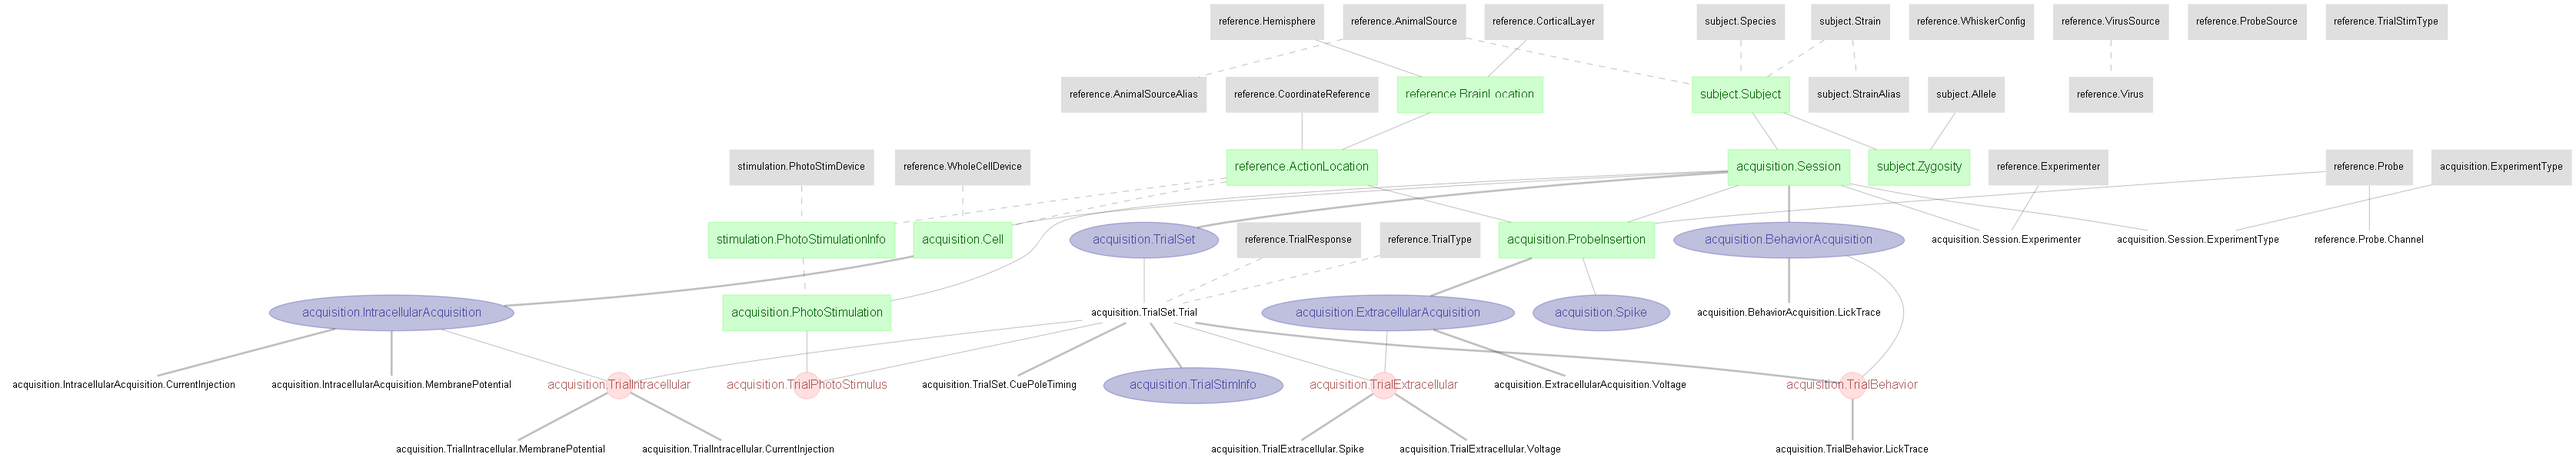
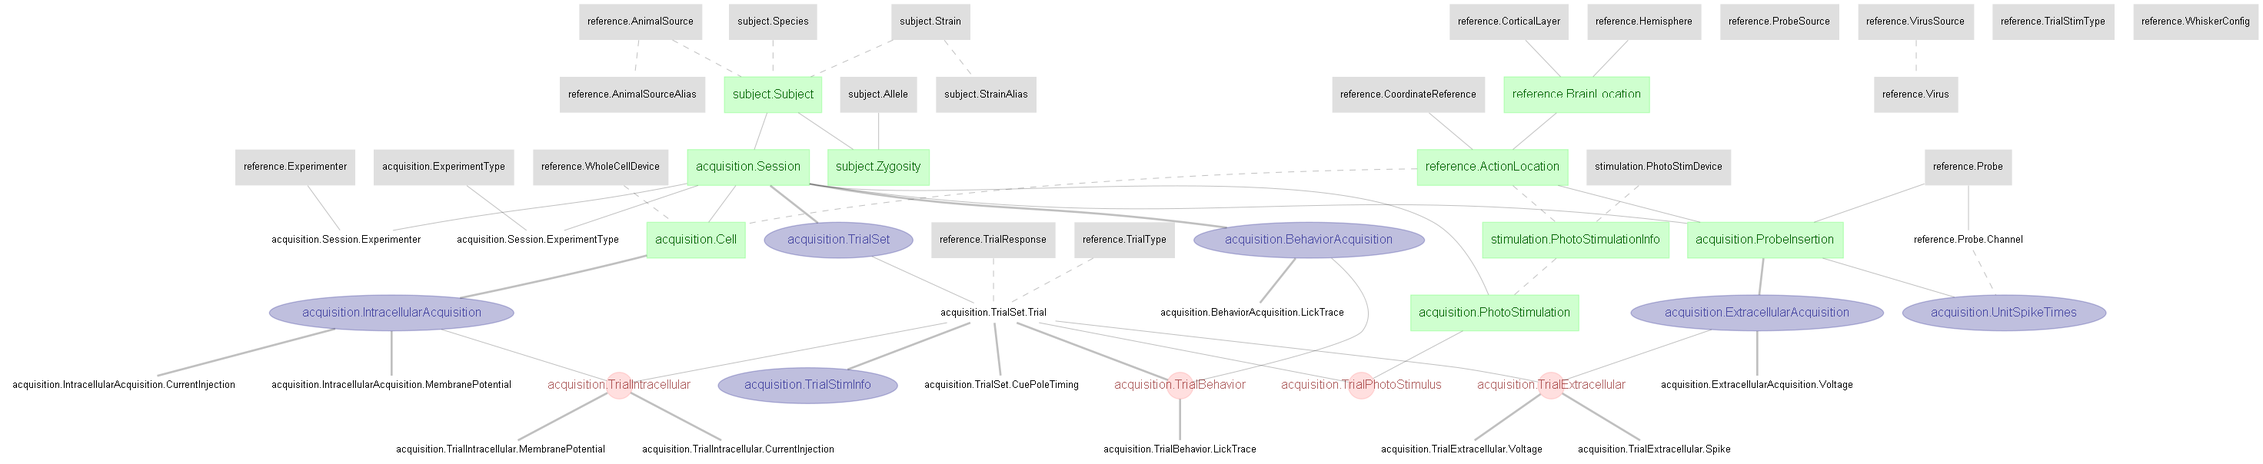
finished ingestion for intra and extra cellular data

diff --git a/pipeline/acquisition.py b/pipeline/acquisition.py
@@ -60,7 +60,8 @@ class BehaviorAcquisition(dj.Imported):
         ---
         lick_trace_left: longblob   
         lick_trace_right: longblob
-        lick_trace_time_stamps: longblob
+        lick_trace_start_time: float # first timepoint of lick trace recording
+        lick_trace_sampling_rate: float # sampling rate of lick trace recording
         """       
         
     def make(self,key):
@@ -79,11 +80,13 @@ class BehaviorAcquisition(dj.Imported):
         
         #  ============= Now read the data and start ingesting =============
         self.insert1(key)
-        print('Insert extracellular data for: subject: {0} - date: {1}'.format(key['subject_id'],key['session_time']))
+        print('Insert behavioral data for: subject: {0} - date: {1}'.format(key['subject_id'],key['session_time']))
         # -- MembranePotential
-        key['lick_trace_left'] = np.array(nwb['acquisition']['timeseries']['lick_trace_L']['data'])
-        key['lick_trace_right'] = np.array(nwb['acquisition']['timeseries']['lick_trace_R']['data'])
-        key['lick_trace_time_stamps'] = np.array(nwb['acquisition']['timeseries']['lick_trace_L']['timestamps'])
+        key['lick_trace_left'] = nwb['acquisition']['timeseries']['lick_trace_L']['data'].value
+        key['lick_trace_right'] = nwb['acquisition']['timeseries']['lick_trace_R']['data'].value
+        lick_trace_time_stamps = nwb['acquisition']['timeseries']['lick_trace_R']['timestamps'].value
+        key['lick_trace_start_time'] = lick_trace_time_stamps[0]
+        key['lick_trace_sampling_rate'] = 1/np.mean(np.diff(lick_trace_time_stamps))        
         self.LickTrace.insert1(key, ignore_extra_fields=True)
 
 
@@ -95,7 +98,8 @@ class PhotoStimulation(dj.Manual):
     ---
     -> stimulation.PhotoStimulationInfo
     photostim_timeseries: longblob
-    photostim_time_stamps: longblob
+    photostim_start_time: float # first timepoint of photostim recording
+    photostim_sampling_rate: float # sampling rate of photostim recording
     """    
 
 
@@ -123,7 +127,8 @@ class IntracellularAcquisition(dj.Imported):
         ---
         membrane_potential: longblob    # Membrane potential recording at this cell
         membrane_potential_wo_spike: longblob # membrane potential without spike data, derived from membrane potential recording    
-        membrane_potential_time_stamps: longblob # timestamps of membrane potential recording
+        membrane_potential_start_time: float # first timepoint of membrane potential recording
+        membrane_potential_sampling_rate: float # sampling rate of membrane potential recording
         """
         
     class CurrentInjection(dj.Part):
@@ -131,7 +136,8 @@ class IntracellularAcquisition(dj.Imported):
         -> master
         ---
         current_injection: longblob
-        current_injection_time_stamps: longblob        
+        current_injection_start_time: float # first timepoint of current injection recording
+        current_injection_sampling_rate: float # sampling rate of current injection recording
         """
         
     def make(self,key):
@@ -150,15 +156,19 @@ class IntracellularAcquisition(dj.Imported):
         
         #  ============= Now read the data and start ingesting =============
         self.insert1(key)
-        print('Insert behavioral data for: subject: {0} - date: {1} - cell: {2}'.format(key['subject_id'],key['session_time'],key['cell_id']))
+        print('Insert intracellular data for: subject: {0} - date: {1} - cell: {2}'.format(key['subject_id'],key['session_time'],key['cell_id']))
         # -- MembranePotential
-        key['membrane_potential'] = np.array(nwb['acquisition']['timeseries']['membrane_potential']['data'])
-        key['membrane_potential_wo_spike'] = np.array(nwb['analysis']['Vm_wo_spikes']['membrane_potential_wo_spike']['data'])
-        key['membrane_potential_time_stamps'] = np.array(nwb['acquisition']['timeseries']['membrane_potential']['timestamps'])
+        key['membrane_potential'] = nwb['acquisition']['timeseries']['membrane_potential']['data'].value
+        key['membrane_potential_wo_spike'] = nwb['analysis']['Vm_wo_spikes']['membrane_potential_wo_spike']['data'].value
+        membrane_potential_time_stamps = nwb['acquisition']['timeseries']['membrane_potential']['timestamps'].value
+        key['membrane_potential_start_time'] = membrane_potential_time_stamps[0]
+        key['membrane_potential_sampling_rate'] = 1/np.mean(np.diff(membrane_potential_time_stamps))        
         self.MembranePotential.insert1(key, ignore_extra_fields=True)
         # -- CurrentInjection
-        key['current_injection'] = np.array(nwb['acquisition']['timeseries']['current_injection']['data'])
-        key['current_injection_time_stamps'] = np.array(nwb['acquisition']['timeseries']['current_injection']['timestamps']),
+        key['current_injection'] = nwb['acquisition']['timeseries']['current_injection']['data'].value
+        current_injection_time_stamps = nwb['acquisition']['timeseries']['current_injection']['timestamps'].value
+        key['current_injection_start_time'] = current_injection_time_stamps[0]
+        key['current_injection_sampling_rate'] = 1/np.mean(np.diff(current_injection_time_stamps))                
         self.CurrentInjection.insert1(key, ignore_extra_fields=True)
         nwb.close()
 
@@ -183,15 +193,17 @@ class ExtracellularAcquisition(dj.Imported):
         -> master
         ---
         voltage: longblob   
-        voltage_time_stamps: longblob
+        voltage_start_time: float # first timepoint of voltage recording
+        voltage_sampling_rate: float # sampling rate of voltage recording
         """
         
     def make(self,key):
         # this function implements the ingestion of raw extracellular data into the pipeline
         return None
 
+
 @schema
-class Spike(dj.Imported):
+class UnitSpikeTimes(dj.Imported):
     definition = """ 
     -> ProbeInsertion
     unit_id : smallint
@@ -274,13 +286,14 @@ class TrialSet(dj.Imported):
         ---
         cue_start_time = null: float           # cue onset of this trial (auditory cue), with respect to this session's start time
         cue_end_time = null: float      # cue end of this trial, with respect to this session's start time
-        pole_in_tim = null: float              # the start of sample period for each trial (e.g. the onset of pole motion towards the exploration area), relative to session start time
+        pole_in_time = null: float              # the start of sample period for each trial (e.g. the onset of pole motion towards the exploration area), relative to session start time
         pole_out_time = null: float            # the end of the sample period (e.g. the onset of pole motion away from the exploration area), relative to session start time
         """
 
     def make(self,key):
         # this function implements the ingestion of Trial data into the pipeline
         return None
+    
     
 @schema
 class TrialStimInfo(dj.Imported):
@@ -298,6 +311,7 @@ class TrialStimInfo(dj.Imported):
     def make(self,key):
         # this function implements the ingestion of Trial stim info into the pipeline
         return None
+    
     
 @schema
 class TrialExtracellular(dj.Computed):
@@ -347,7 +361,7 @@ class TrialIntracellular(dj.Computed):
     
     
 @schema     
-class TrialBehavior(dj.Computed):
+class TrialBehavior(dj.Computed):   
     definition = """
     -> BehaviorAcquisition
     -> TrialSet.Trial

diff --git a/scripts/ingest_nwb_extracellular.py b/scripts/ingest_nwb_extracellular.py
@@ -11,6 +11,7 @@ import re
 import h5py as h5
 import numpy as np
 os.chdir('..')
+
 import datajoint as dj
 from pipeline import reference, subject, acquisition, stimulation
 from pipeline import utilities
@@ -156,7 +157,9 @@ for fname in fnames:
         key['stop_time'] = stop_times[idx]
         # ======== Now add trial descriptors ====
         # search through all keyword in trial descriptor tags (keywords are not in fixed order)
+        is_early_lick = False  # if a trial response is 'early lick', then it does not matter if that trial is a correct or incorrect lick anymore
         for tag in tags[idx]:
+            print(tag)
             # good/bad
             key['trial_is_good'] = (re.match('good', tag, re.I) is not None)
             # stim/no-stim
@@ -165,9 +168,13 @@ for fname in fnames:
             m = re.match('Hit|Err|NoLick',tag)
             key['trial_type'] = 'non-performing' if (m is None) else trial_type_choices[tag[m.end()]]
             # trial response type: correct, incorrect, early lick, no response
-            if not ('trial_response' in key) or (key['trial_response'] != 'early lick'):
+            if not is_early_lick:
                 m = re.match('Hit|Err|NoLick|LickEarly',tag)
-                key['trial_response'] = 'N/A' if (m is None) else trial_resp_choices[m.group()]
+                if m is None:
+                    key['trial_response'] = 'N/A'
+                else: 
+                    trial_resp_choices[m.group()]
+                    is_early_lick = True if m.group() == 'LickEarly' else False
             # photo stim type: stimulation, inhibition, or N/A (for non-stim trial)
             m = re.match('PhotoStimulation|PhotoInhibition', tag, re.I)
             key['photo_stim_type'] = 'N/A' if (m is None) else m.group().replace('Photo','').lower()
@@ -298,15 +305,17 @@ for fname in fnames:
 
     # -- PhotoStimulation 
     # only 1 photostim per session, perform at the same time with session
-    photostim_data = np.array(nwb['stimulus']['presentation']['photostimulus']['data'])
-    photostim_timestamps = np.array(nwb['stimulus']['presentation']['photostimulus']['timestamps'])   
-    acquisition.PhotoStimulation.insert1(
-            {'subject_id':subject_id,
-             'session_time': date_of_experiment,
-             'photostim_datetime': date_of_experiment,
-             'photo_stim_id':opto_site_name,
-             'photostim_timeseries': photostim_data,
-             'photostim_time_stamps': photostim_timestamps},skip_duplicates=True) 
+    photostim_data = nwb['stimulus']['presentation']['photostimulus_1']['data'].value
+    photostim_timestamps = nwb['stimulus']['presentation']['photostimulus_1']['timestamps'].value   
+    # if the dataset does not contain photostim timeseries, skip
+    if isinstance(photostim_data,np.ndarray):
+        acquisition.PhotoStimulation.insert1(
+                {'subject_id':subject_id,
+                 'session_time': date_of_experiment,
+                 'photostim_datetime': date_of_experiment,
+                 'photo_stim_id':opto_site_name,
+                 'photostim_timeseries': photostim_data,
+                 'photostim_time_stamps': photostim_timestamps},skip_duplicates=True) 
 
     # -- finish manual ingestion for this file
     nwb.close()

diff --git a/pipeline/utilities.py b/pipeline/utilities.py
@@ -3,8 +3,9 @@ from datetime import datetime
 import re
 
 import h5py as h5
+import numpy as np
 
-from . import reference
+from . import reference, acquisition
 
 
 # datetime format - should probably read this from a config file and not hard coded here
@@ -63,5 +64,40 @@ def find_session_matched_nwbfile(sess_data_dir, animal_id, date_of_experiment):
         else: 
             print(f'Found datafile: {sess_data_file}')
             return sess_data_file
+ 
+
+def segment_trial_based(trial_key, event_name, pre_stim_dur, post_stim_dur, data, fs, first_time_point):
+        # get event time
+        if event_name == 'start_time' or event_name == 'stop_time':
+            event_time_point = (acqusition.TrialSet.Trial & trial_key).fetch1(event_name)
+        else:
+            try:
+                event_time_point = (acqusition.TrialSet.CuePoleTiming & trial_key).fetch1(event_name)
+            except Exception as e:
+                print(f'Error extracting event type: {event_name}\nMsg: {str(e)}')
+                return
+        # check if pre/post stim dur is within start/stop time
+        trial_start, trial_stop = (acqusition.TrialSet.Trial & trial_key).fetch1('start_time','stop_time')
+        if event_time_point - pre_stim_dur < trial_start:
+            print('Warning: Out of bound prestimulus duration, set to 0')
+            pre_stim_dur = 0
+        if event_time_point + post_stim_dur > trial_stop:
+            print('Warning: Out of bound poststimulus duration, set to trial end time')
+            post_stim_dur = trial_stop - event_time_point
+
+        event_sample_point = (event_time_point - first_time_point) * fs
+        sample_points_to_extract = np.arange(event_sample_point - pre_stim_dur * fs, event_sample_point - post_stim_dur * fs + 1)
+        segmented_data = data[sample_points_to_extract]
         
+        # recompute other event timing with respect to the time-lock event (t=0)
+        cue_start, cue_end, pole_in, pole_out = (acqusition.TrialSet.CuePoleTiming & trial_key).fetch1('cue_start_time','cue_end_time','pole_in_time','pole_out_time')
+        trial_start = trial_start - event_time_point
+        trial_stop = trial_stop - event_time_point
+        cue_start = cue_start - event_time_point
+        cue_end = cue_end - event_time_point
+        pole_in = pole_in - event_time_point
+        pole_out = pole_out - event_time_point
+        
+        return segmented_data, trial_start, trial_stop, cue_start, cue_end, pole_in, pole_out
+       
         

diff --git a/scripts/ingest_nwb_wholecell.py b/scripts/ingest_nwb_wholecell.py
@@ -308,22 +308,23 @@ for fname in fnames:
 
     # -- PhotoStimulation 
     # only 1 photostim per session, perform at the same time with session
-    photostim_data = np.array(nwb['stimulus']['presentation']['photostimulus']['data'])
-    photostim_timestamps = np.array(nwb['stimulus']['presentation']['photostimulus']['timestamps'])   
+    photostim_data = nwb['stimulus']['presentation']['photostimulus']['data'].value
+    photostim_timestamps = nwb['stimulus']['presentation']['photostimulus']['timestamps'].value   
     acquisition.PhotoStimulation.insert1(
             {'subject_id':subject_id,
              'session_time': date_of_experiment,
              'photostim_datetime': date_of_experiment,
              'photo_stim_id':opto_site_name,
              'photostim_timeseries': photostim_data,
-             'photostim_time_stamps': photostim_timestamps},skip_duplicates=True) 
+             'photostim_start_time': photostim_timestamps[0],
+             'photostim_sampling_rate': 1/np.mean(np.diff(photostim_timestamps))},skip_duplicates=True) 
 
     # -- finish manual ingestion for this file
     nwb.close()
 
 # ====================== Starting import and compute procedure ======================
 
-# -- Intracellular
-acquisition.IntracellularAcquisition.populate()
-# -- Behavioral
-acquisition.BehaviorAcquisition.populate()
+## -- Intracellular
+#acquisition.IntracellularAcquisition.populate()
+## -- Behavioral
+#acquisition.BehaviorAcquisition.populate()
